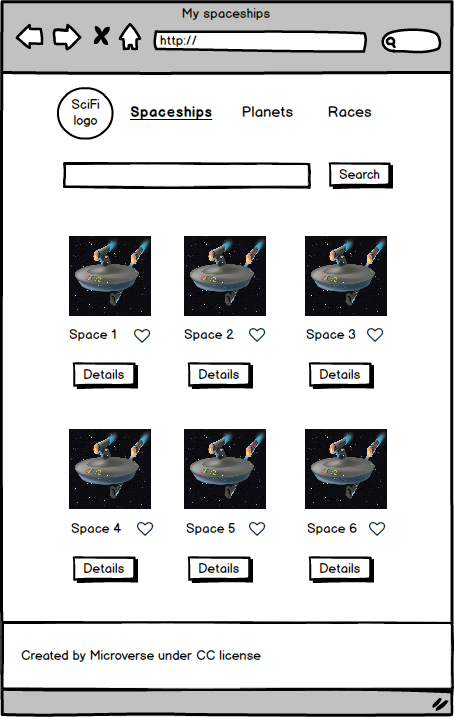
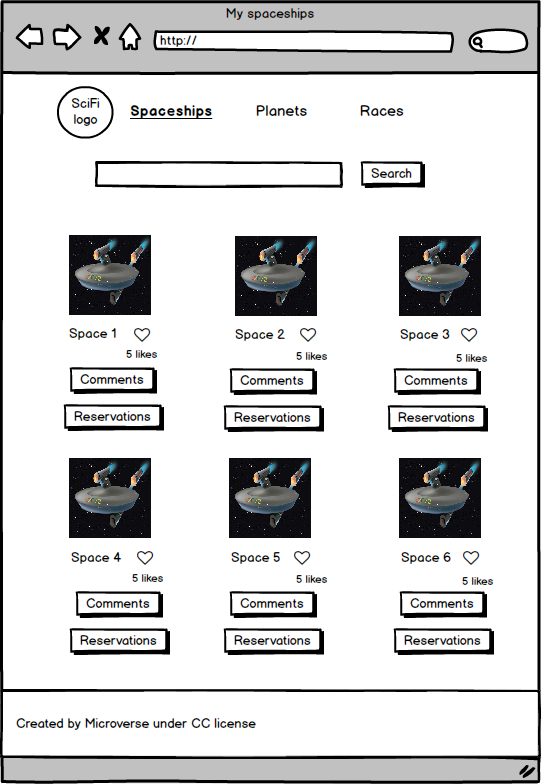
Update project mockups

diff --git a/group-capstone/js_capstone.md b/group-capstone/js_capstone.md
@@ -24,11 +24,15 @@
 The project you are going to build is based on... 
 
 <p align="center">
-  <img src="./images/home.png" alt="Home page" />
+  <img src="./images/Home.png" alt="Home page" />
 </p>
 
 <p align="center">
-  <img src="./images/detail.png" alt="Detail page" />
+  <img src="./images/Comments.png" alt="Comments page" />
+</p>
+
+<p align="center">
+  <img src="./images/Reservations.png" alt="Reservations page" />
 </p>
 
 *IMPORTANT NOTE: Read **all** requirements before you start building your project.*
